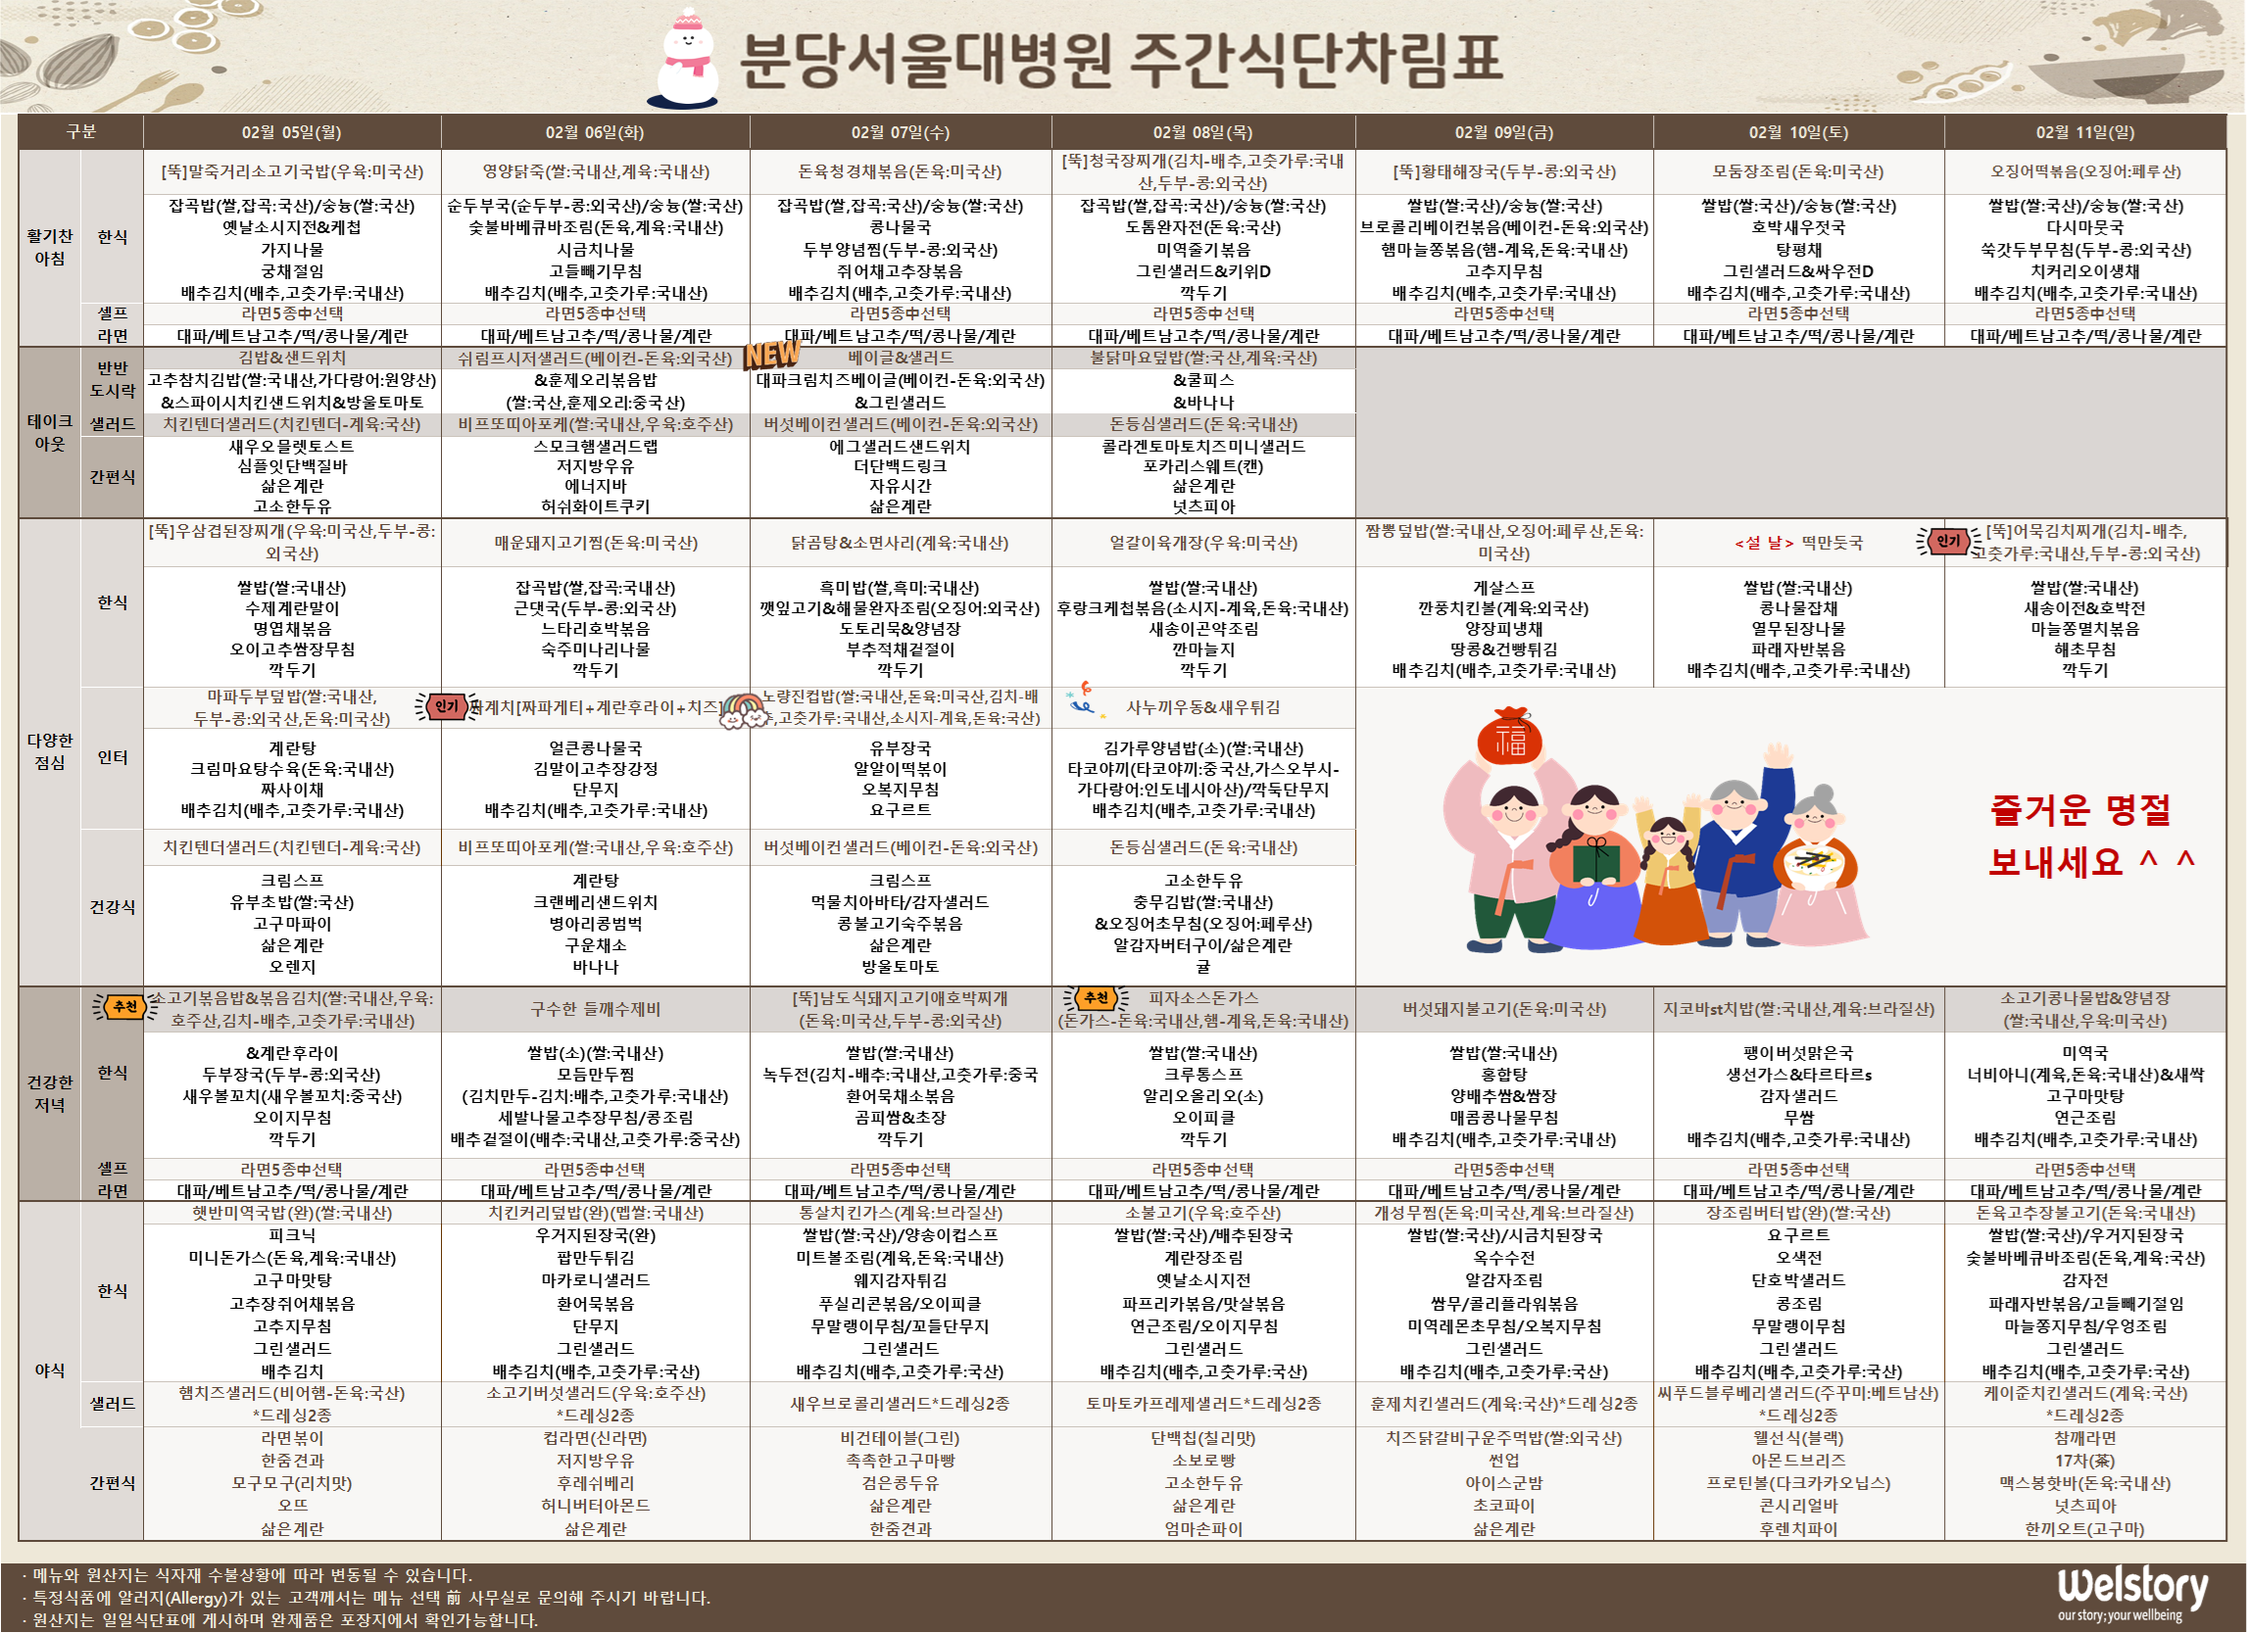
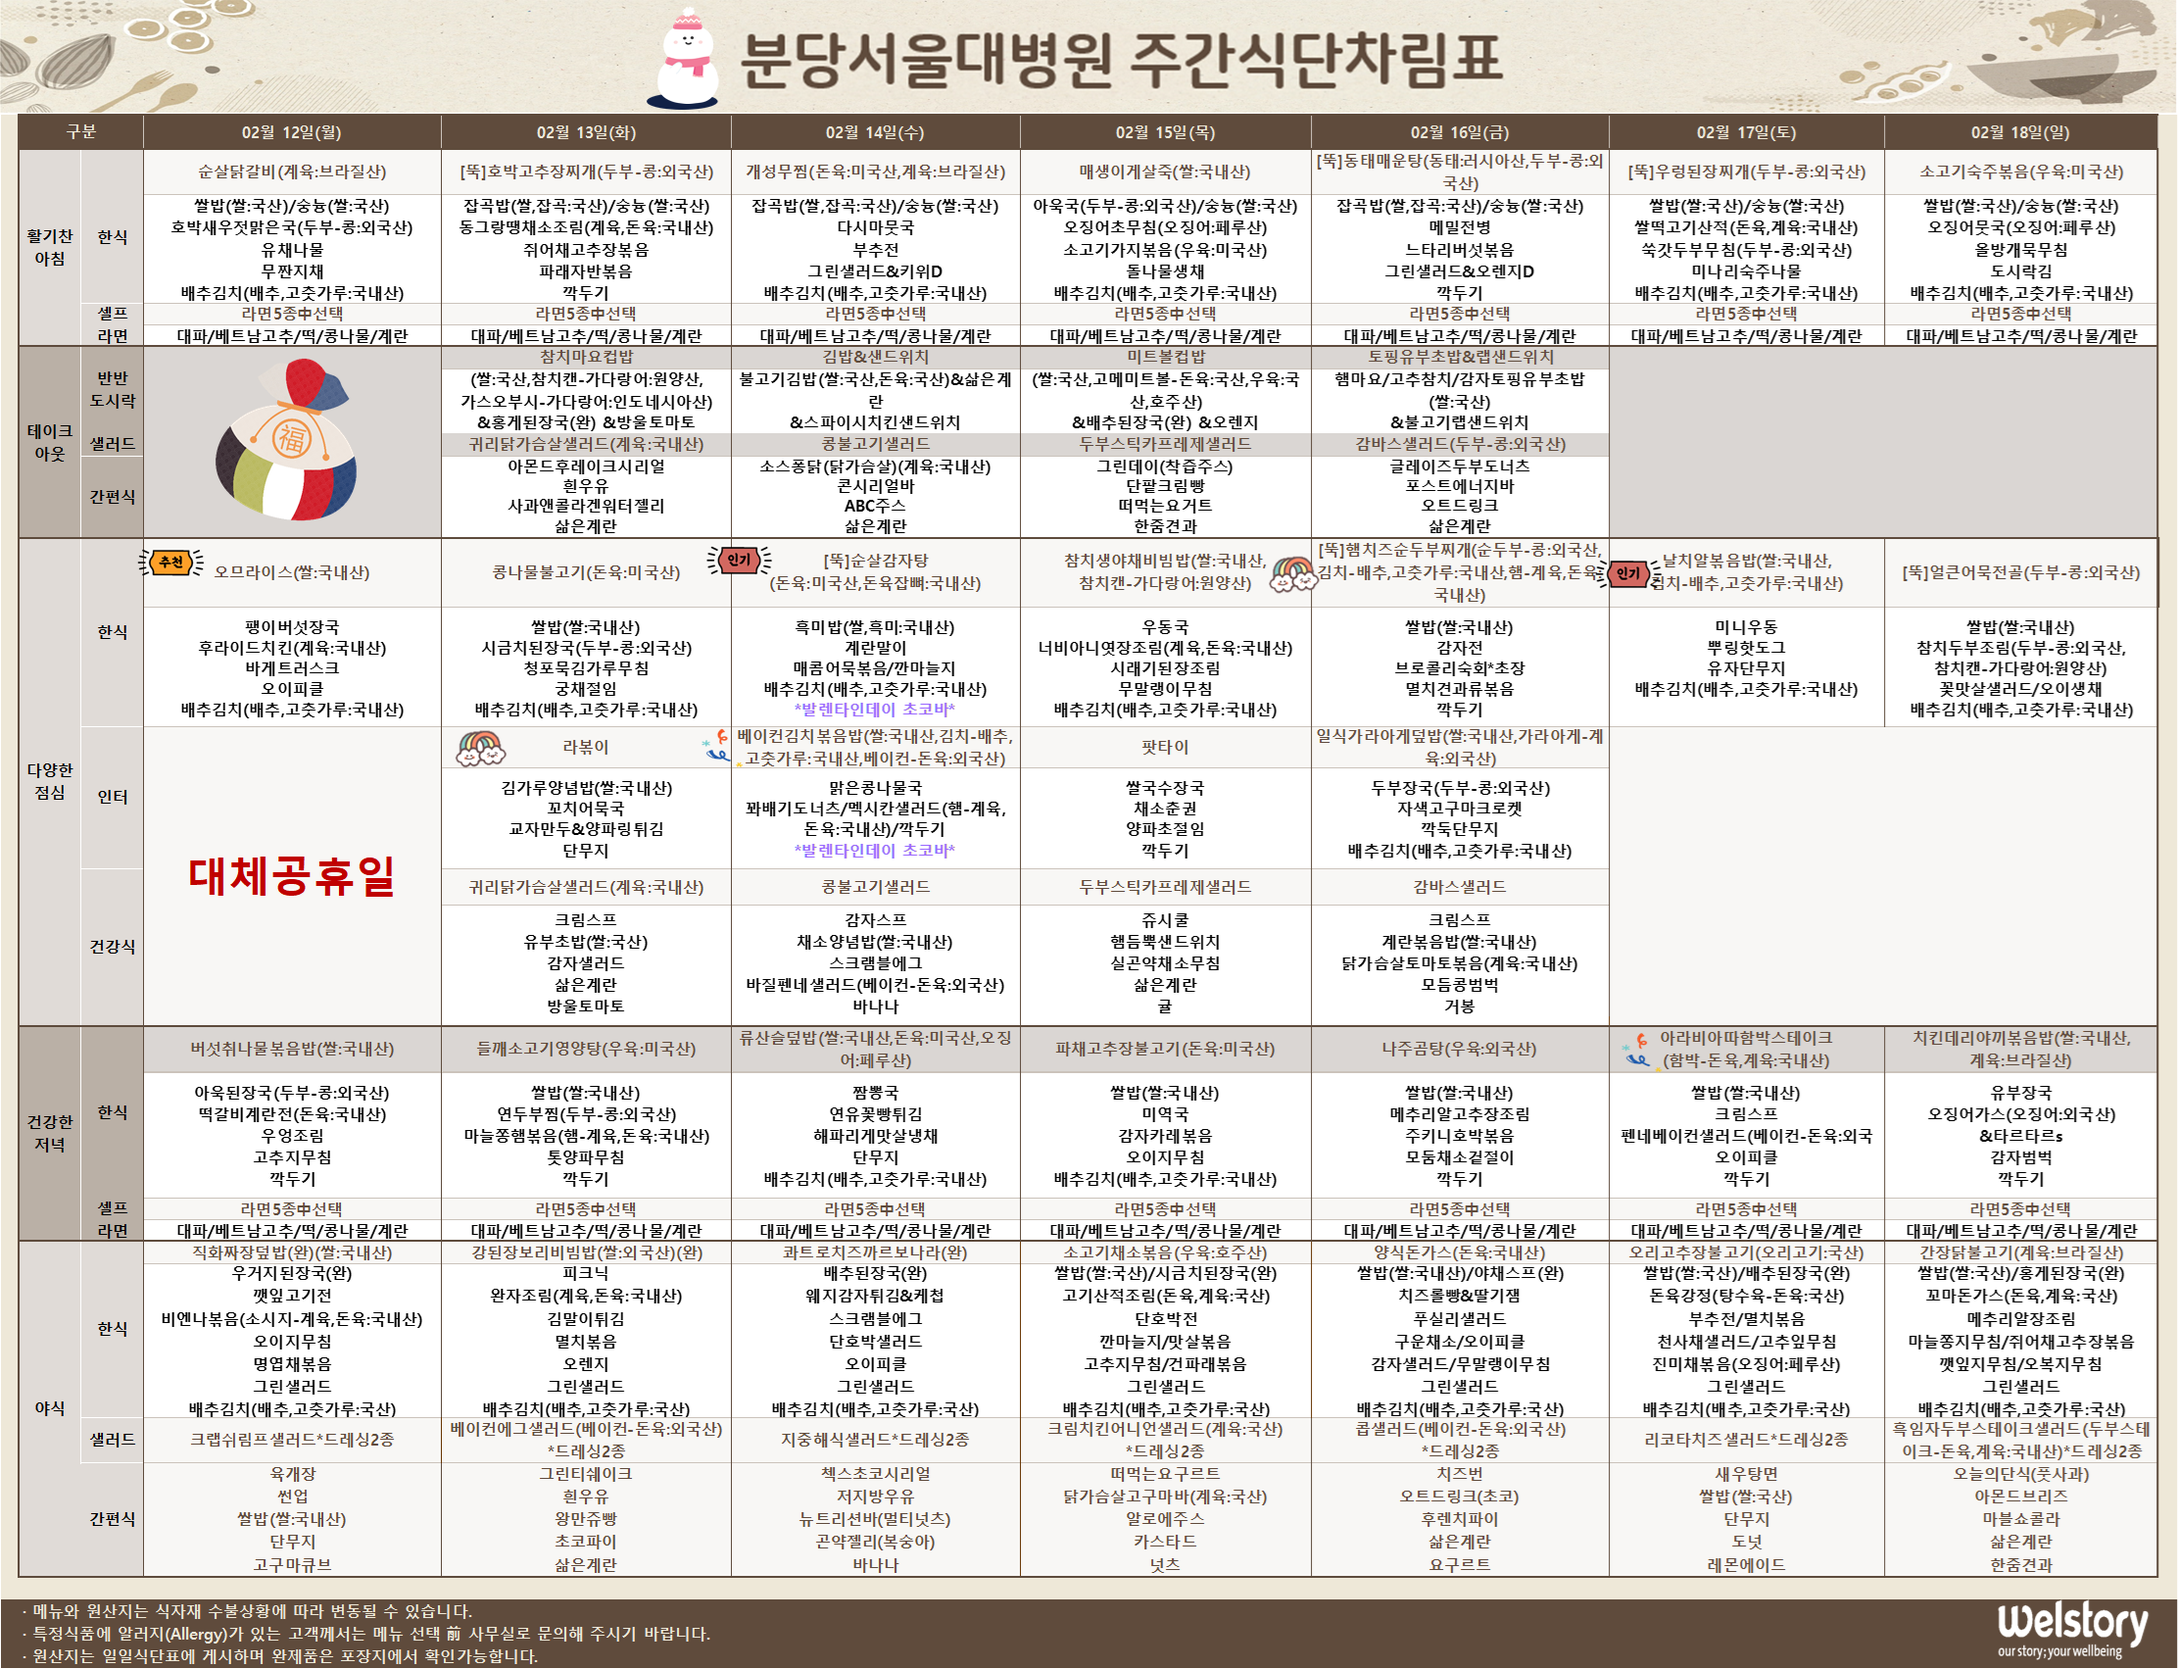
Add files via upload

Changed region(s): [[0.0, 0.0, 0.9933, 0.9982], [0.8691, 0.4679, 0.9933, 0.5615]]

diff --git a/6/index.html b/6/index.html
@@ -12,17 +12,13 @@
 <h2> 메뉴 업데이트는 주인장 여유가 되면 합니다. (이미지 확대해서 보세요) <br> </h2>
 
 <br>
-<h1> 2월 1주차 </h1>
+<h1> 2월 2주차 </h1>
 <img src="수술.png" width="100%">
 <br>
 
-<br>
-<h1> 1월 5주차 </h1>
-<img src="수술_1.png" width="100%">
-<br>
 
 
-<h6> Last update 2024/02/02  </h6>  
+<h6> Last update 2024/02/13  </h6>  
 <h1 >맛있게 드세요.  </h1> 
 
 </body>

diff --git a/1/index.html b/1/index.html
@@ -13,18 +13,14 @@
 
 
 <br>
-<h1> 2월 1주차  </h1>
+<h1> 2월 2주차  </h1>
 <img src="1동.png" width="100%">
 <br>
 
-<br>
-<h1> 1월 5주차  </h1>
-<img src="1동_1.png" width="100%">
-<br>
 
 
 
-<h6> Last update 2024/02/02  </h6>  
+<h6> Last update 2024/02/13  </h6>  
 <h1 >맛있게 드세요.  </h1> 
 
 </body>

diff --git a/2/index.html b/2/index.html
@@ -13,17 +13,13 @@
 
 
 <br>
-<h1> 2월 1주차  </h1>
+<h1> 2월 2주차  </h1>
 <img src="HIP.png" width="100%">
 <br>
 
-<br>
-<h1> 1월 5주차  </h1>
-<img src="HIP_1.png" width="100%">
-<br>
 
 
-<h6> Last update 2024/02/02  </h6>  
+<h6> Last update 2024/02/13  </h6>  
 <h1 >맛있게 드세요.  </h1> 
 
 </body>
